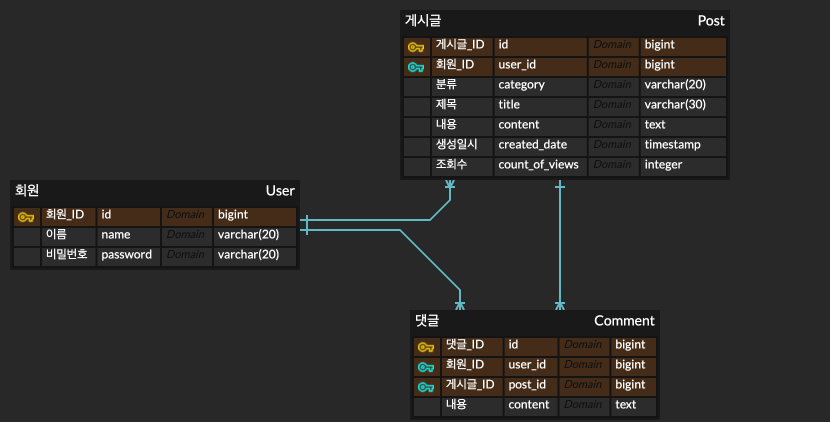
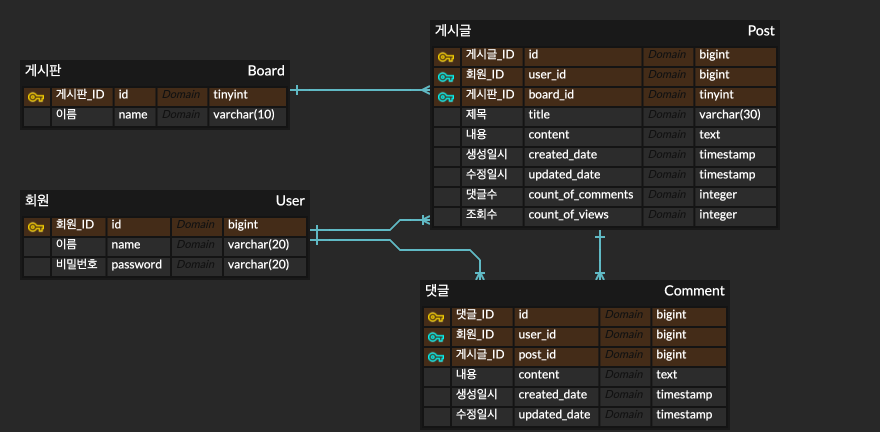
DB스키마 수정 - 2차

diff --git a/src/main/resources/templates/home.html b/src/main/resources/templates/home.html
@@ -21,7 +21,7 @@
         <tr th:each="post : ${posts}">
             <td th:text="${post.id}">글번호</td>
             <td class="text-start">
-                [<span th:text="${post.category}">분류</span>]
+                [<span th:text="${post.board}">게시판</span>]
                 <span th:text="${post.title}">제목</span>
                 [<span th:text="${post.countOfComments}">댓글수</span>]
             </td>
@@ -31,6 +31,7 @@
         </tr>
         </tbody>
     </table>
+    <a class="btn btn-primary" th:href="@{/post/write}">글쓰기</a>
 </section>
 </body>
 </html>

diff --git a/src/main/java/com/example/simpleboard/repository/PostRepository.java b/src/main/java/com/example/simpleboard/repository/PostRepository.java
@@ -2,12 +2,14 @@ package com.example.simpleboard.repository;
 
 import com.example.simpleboard.domain.Post;
 import lombok.RequiredArgsConstructor;
+import lombok.extern.slf4j.Slf4j;
 import org.springframework.jdbc.core.RowMapper;
 import org.springframework.jdbc.core.namedparam.NamedParameterJdbcTemplate;
 import org.springframework.stereotype.Repository;
 
 import java.util.List;
 
+@Slf4j
 @Repository
 @RequiredArgsConstructor
 public class PostRepository {
@@ -15,25 +17,22 @@ public class PostRepository {
     private final NamedParameterJdbcTemplate jdbcTemplate;
 
     public List<Post> findAll() {
-        String sb = "SELECT p.id as post_id, u.name as writer, category," +
-                " title, p.content as content," +
-                " created_date, updated_date," +
-                " COUNT(c.id) as count_of_comments, count_of_views" +
-                " FROM POST as p" +
-                " LEFT OUTER JOIN USER as u" +
-                " ON p.user_id = u.id" +
-                " LEFT OUTER JOIN COMMENT as c" +
-                " ON p.id = c.post_id" +
-                " GROUP BY p.id";
-        return jdbcTemplate.query(sb, rowMapper());
+        String sql = "SELECT p.id, u.name as writer, b.name as board,"
+                + " p.title, p.content, p.created_date, p.updated_date, p.count_of_comments, p.count_of_views"
+                + " FROM POST as p"
+                + " LEFT OUTER JOIN USER as u"
+                + " ON p.user_id = u.id"
+                + " LEFT OUTER JOIN BOARD as b"
+                + " ON p.board_id = b.id";
+        return jdbcTemplate.query(sql, rowMapper());
     }
 
     private RowMapper<Post> rowMapper() {
         return (rs, rowNum) -> {
             Post post = new Post();
-            post.setId(rs.getLong("post_id"));
+            post.setId(rs.getLong("id"));
             post.setWriter(rs.getString("writer"));
-            post.setCategory(rs.getString("category"));
+            post.setBoard(rs.getString("board"));
             post.setTitle(rs.getString("title"));
             post.setContent(rs.getString("content"));
             post.setCreatedDate(rs.getTimestamp("created_date").toLocalDateTime());

diff --git a/src/main/java/com/example/simpleboard/response/PostResponse.java b/src/main/java/com/example/simpleboard/response/PostResponse.java
@@ -1,9 +1,7 @@
 package com.example.simpleboard.response;
 
 import com.example.simpleboard.domain.Post;
-import lombok.Builder;
 import lombok.Getter;
-import lombok.NoArgsConstructor;
 
 import java.time.LocalDateTime;
 
@@ -14,7 +12,7 @@ public class PostResponse {
 
     private String writer;
 
-    private String category;
+    private String board;
 
     private String title;
 
@@ -31,7 +29,7 @@ public class PostResponse {
     public PostResponse(Post post) {
         this.id = post.getId();
         this.writer = post.getWriter();
-        this.category = post.getCategory();
+        this.board = post.getBoard();
         this.title = post.getTitle();
         this.content = post.getContent();
         this.createdDate = post.getCreatedDate();

diff --git a/src/main/java/com/example/simpleboard/domain/Comment.java b/src/main/java/com/example/simpleboard/domain/Comment.java
@@ -2,6 +2,8 @@ package com.example.simpleboard.domain;
 
 import lombok.Getter;
 
+import java.time.LocalDateTime;
+
 @Getter
 public class Comment {
 
@@ -12,5 +14,9 @@ public class Comment {
     private Long postId;
 
     private Long userId;
+
+    private LocalDateTime createdDate;
+
+    private LocalDateTime updatedDate;
 
 }

diff --git a/src/main/java/com/example/simpleboard/domain/Post.java b/src/main/java/com/example/simpleboard/domain/Post.java
@@ -1,5 +1,6 @@
 package com.example.simpleboard.domain;
 
+import lombok.Builder;
 import lombok.Getter;
 import lombok.Setter;
 
@@ -13,7 +14,7 @@ public class Post {
 
     private String writer;
 
-    private String category;
+    private String board;
 
     private String title;
 

diff --git a/TIL/SQL/정규화와 역정규화.md b/TIL/SQL/정규화와 역정규화.md
@@ -1,0 +1,59 @@
+# 정규화와 역정규화
+
+## 문제
+
+카테고리별로 글을 정리하고 상단 네비게이션바에서 게시판을 선택하고 싶어서,
+이를 위해 `POST` 테이블의 `CATEGORY` 컬럼을 `BOARD` 테이블로 정규화했다.
+
+![](images/정규화_전체.png)
+
+그런데 이렇게 하고보니 `POST` 테이블에서 `FK`로 참조하고있는 테이블이 2개이고
+글목록에서 댓글 개수까지 참조하려면
+`JOIN` 테이블의 수가 `USER`, `COMMENT`, `BOARD` 총 3개가 필요해졌다.
+
+메인화면에서 글 목록을 가져오는데 3개의 테이블을 `JOIN`하고
+심지어 `COMMENT`는 집계함수 `COUNT()`까지 사용한다.
+또한 쿼리를 작성해보니 너무 복잡하고 길어졌다.
+
+## 분석
+
+1. 정규화는 `JOIN`으로 인하여 성능이 저하된다.
+2. `JOIN`이 많아지면 쿼리 유지보수가 힘들다.
+
+## 해결
+
+### 1. 역정규화
+
+먼저 POST 테이블과 관련된 모든 테이블을 역정규화를 해보니
+중복이 너무 많이 발생하고 컬럼도 너무 많아졌다.
+
+![](images/역정규화_전체.png)
+
+### 2. 부분 역정규화
+USER와 BOARD는 다른 페이지에서도 사용하는 테이블이기 때문에 COMMENT만 역정규화 하기로 결정했다.
+COMMENT를 역정규화하기로 결정한 이유는 다음과 같다.
+
+1. `COMMENT`를 가져오는 이유는 메인화면에 `댓글수`를 출력하는 것이 목적인데, 이를 위해 집계함수 `COUNT()`를 사용하기 때문에 성능을 가장 저하시킨다고 생각했다.
+2. `COMMENT`는 `COUNT()`를 위해 `GROUP BY`를 사용해야해서 `USER`와 `BOARD` 테이블보다 쿼리를 더 복잡하게 만든다.
+3. `COUNT_OF_COMMENTS`에 대한 무결성은 `COMMENT`가 `INSERT`될때마다 검증하면 된다고 생각했다. 
+
+따라서 POST 테이블에 COUNT_OF_COMMENT 컬럼을 추가하여 COMMENT 테이블만 역정규화함.
+
+![](images/정규화_최종.png)
+
+## 검증
+
+[//]: # (TODO : 테스트케이스 추가 후 작성)
+
+### 정규화/역정규화에 따른 메인화면 성능 테스트
+1. 모든 테이블을 정규화하고 `JOIN`하는 쿼리
+2. 모든 테이블을 역정규화하고 `SELECT`만 하는 쿼리
+3. `COMMENT` 테이블만 정규화한 쿼리
+
+### COMMENT 정규화에 따른 무결성 검증 성능테스트
+1. `COMMENT` 테이블에 `INSERT`될 때마다 `POST` 테이블의 `COUNT_OF_COMMENTS` 무결성 검증하는 방법
+2. `POST` 테이블에서 `COMMENT` 테이블 `JOIN`하고 `COUNT()`하는 방법
+
+> **[참고자료]**  
+> [제 1-2-3 정규화 & 역정규화 기법](https://inpa.tistory.com/entry/DB-%F0%9F%93%9A-%EC%A0%9C-1-2-3-%EC%A0%95%EA%B7%9C%ED%99%94-%EC%97%AD%EC%A0%95%EA%B7%9C%ED%99%94)  
+> [정규화와 성능](https://ryeom2.tistory.com/54)

diff --git a/TIL/README.md b/TIL/README.md
@@ -1,0 +1,4 @@
+# TIL
+
+## SQL
+* 정규화와 역정규화
